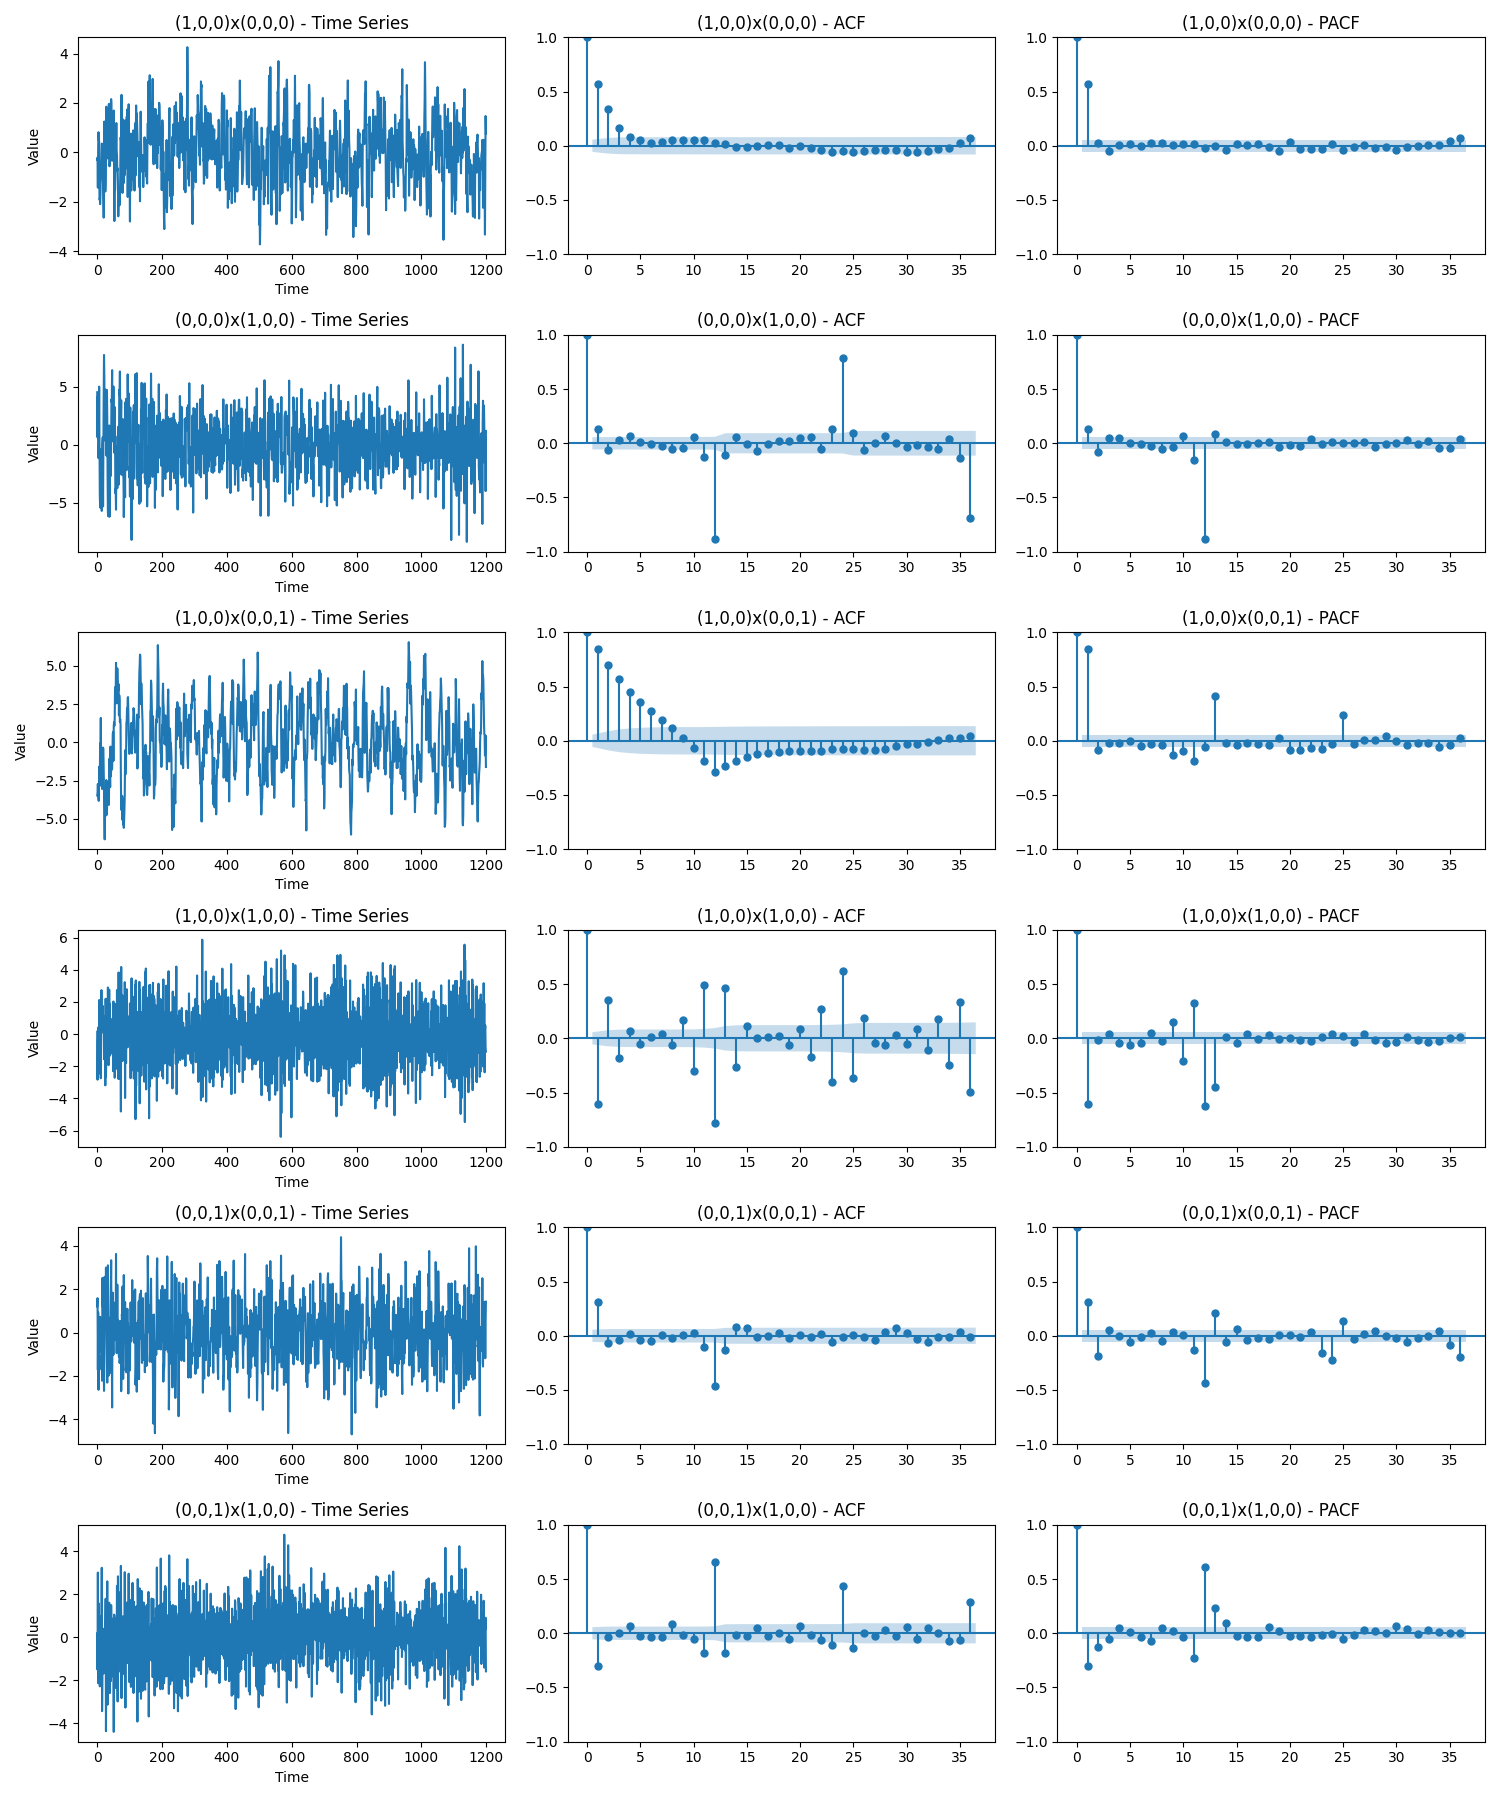
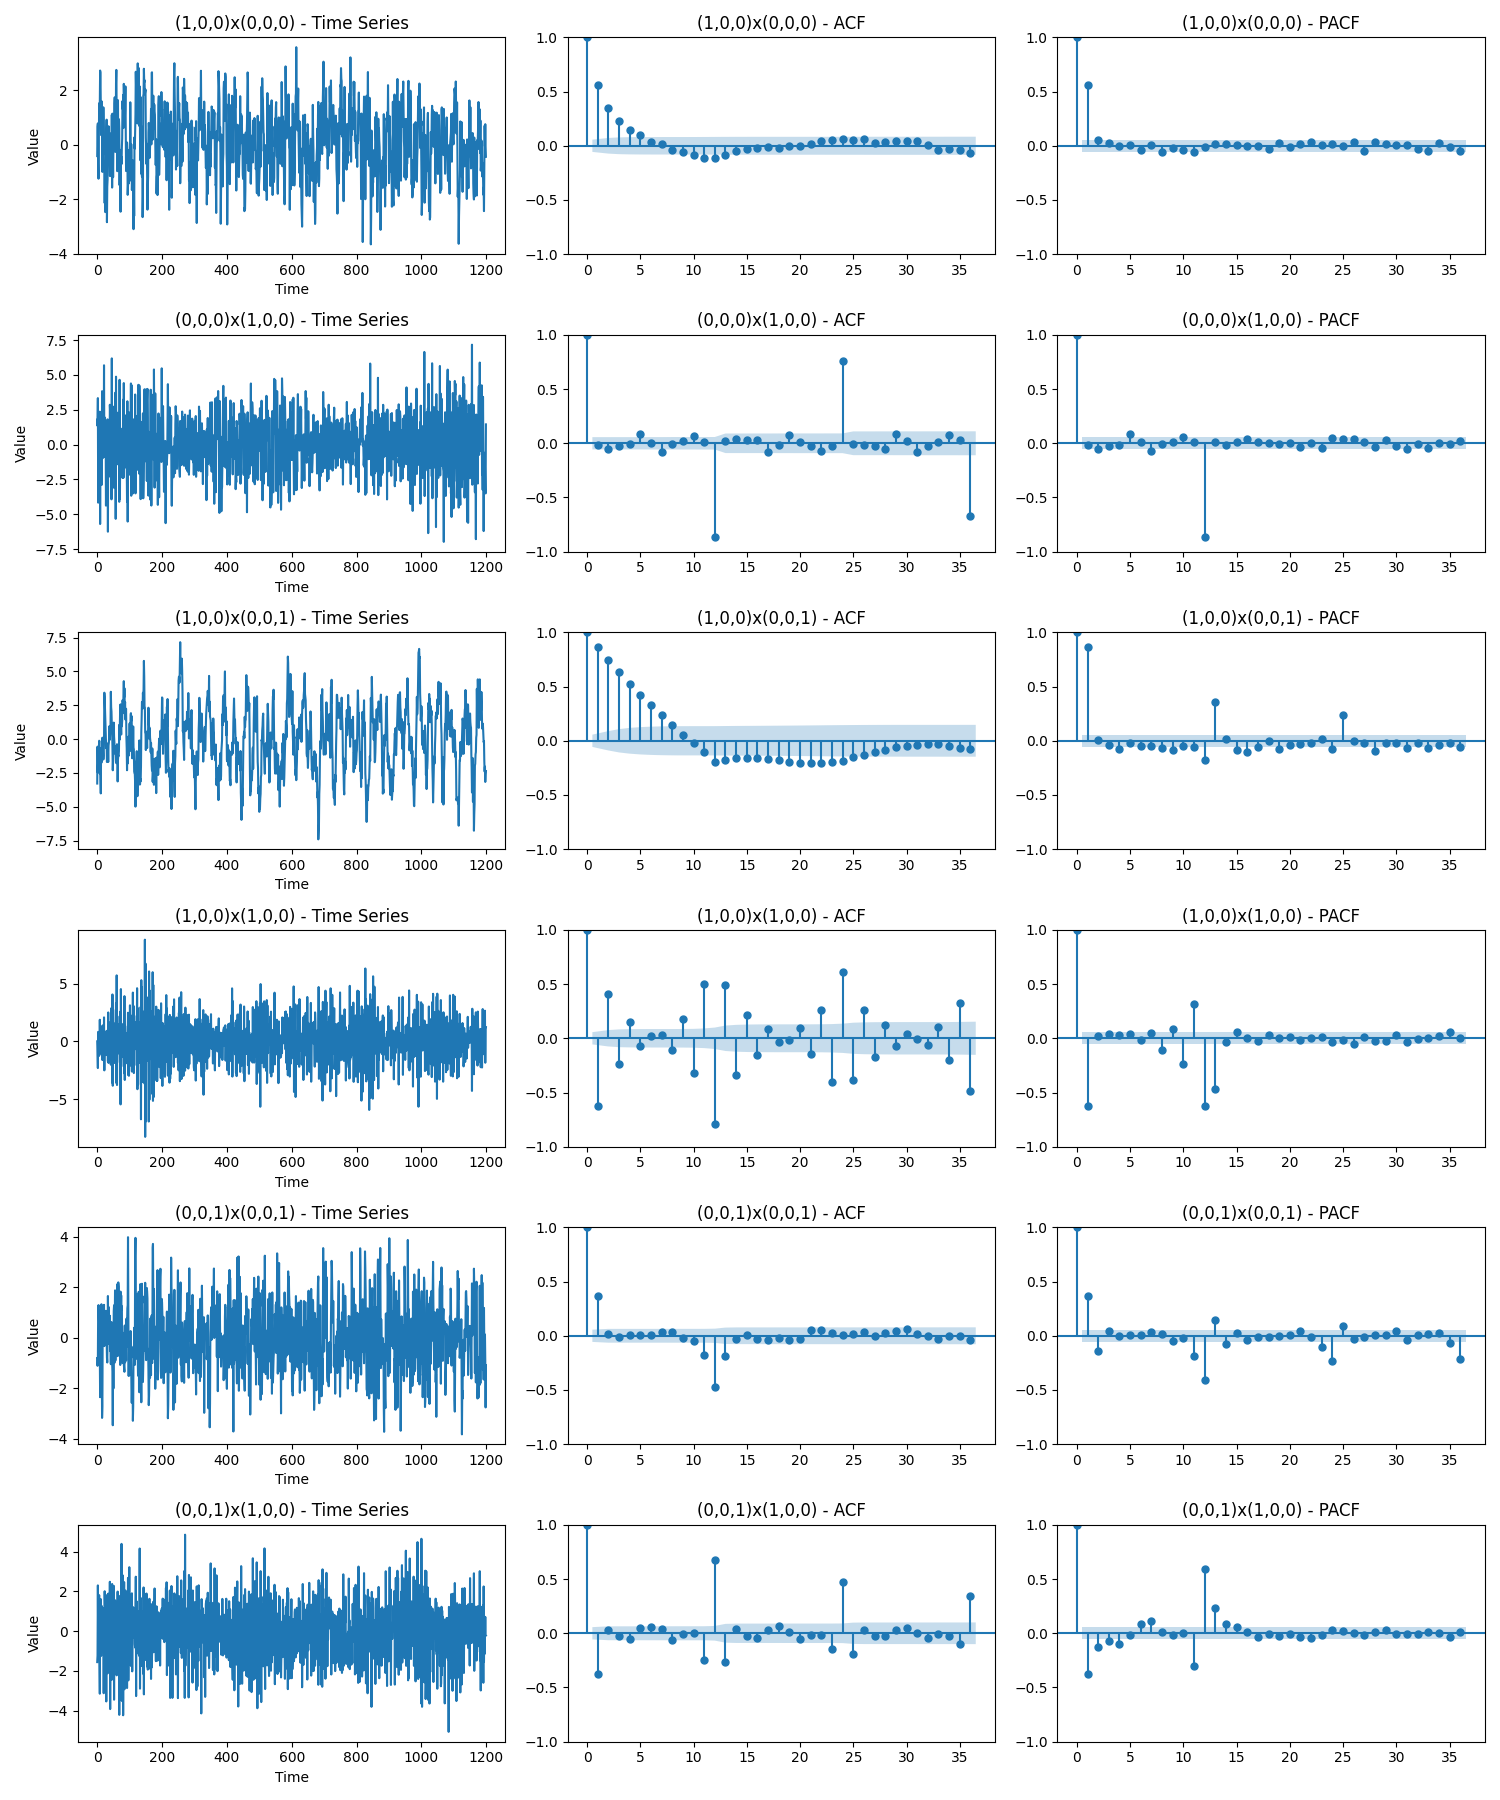
more wrongly written paramters

diff --git a/ex2_v2.py b/ex2_v2.py
@@ -63,7 +63,7 @@ def simulate_seasonal_arima_sarimax(phi, theta, Phi, Theta, p, d, q, P, D, Q, s,
 models = [
     {"params": {"phi": 0.6, "theta": 0, "Phi": 0, "Theta": 0}, "p": 1, "d": 0, "q": 0, "P": 0, "D": 0, "Q": 0, "s": 12, "title": "(1,0,0)x(0,0,0)"},
     {"params": {"phi": 0, "theta": 0, "Phi": -0.9, "Theta": 0}, "p": 0, "d": 0, "q": 0, "P": 1, "D": 0, "Q": 0, "s": 12, "title": "(0,0,0)x(1,0,0)"},
-    {"params": {"phi": 0.9, "theta": -0.7, "Phi": 0, "Theta": 0}, "p": 1, "d": 0, "q": 0, "P": 0, "D": 0, "Q": 1, "s": 12, "title": "(1,0,0)x(0,0,1)"},
+    {"params": {"phi": 0.9, "theta": 0, "Phi": 0, "Theta": -0.7}, "p": 1, "d": 0, "q": 0, "P": 0, "D": 0, "Q": 1, "s": 12, "title": "(1,0,0)x(0,0,1)"},
     {"params": {"phi": -0.6, "theta": 0, "Phi": -0.8, "Theta": 0}, "p": 1, "d": 0, "q": 0, "P": 1, "D": 0, "Q": 0, "s": 12, "title": "(1,0,0)x(1,0,0)"},
     {"params": {"phi": 0, "theta": 0.4, "Phi": 0, "Theta": -0.8}, "p": 0, "d": 0, "q": 1, "P": 0, "D": 0, "Q": 1, "s": 12, "title": "(0,0,1)x(0,0,1)"},
     {"params": {"phi": 0, "theta": -0.4, "Phi": 0.7, "Theta": 0}, "p": 0, "d": 0, "q": 1, "P": 1, "D": 0, "Q": 0, "s": 12, "title": "(0,0,1)x(1,0,0)"}
